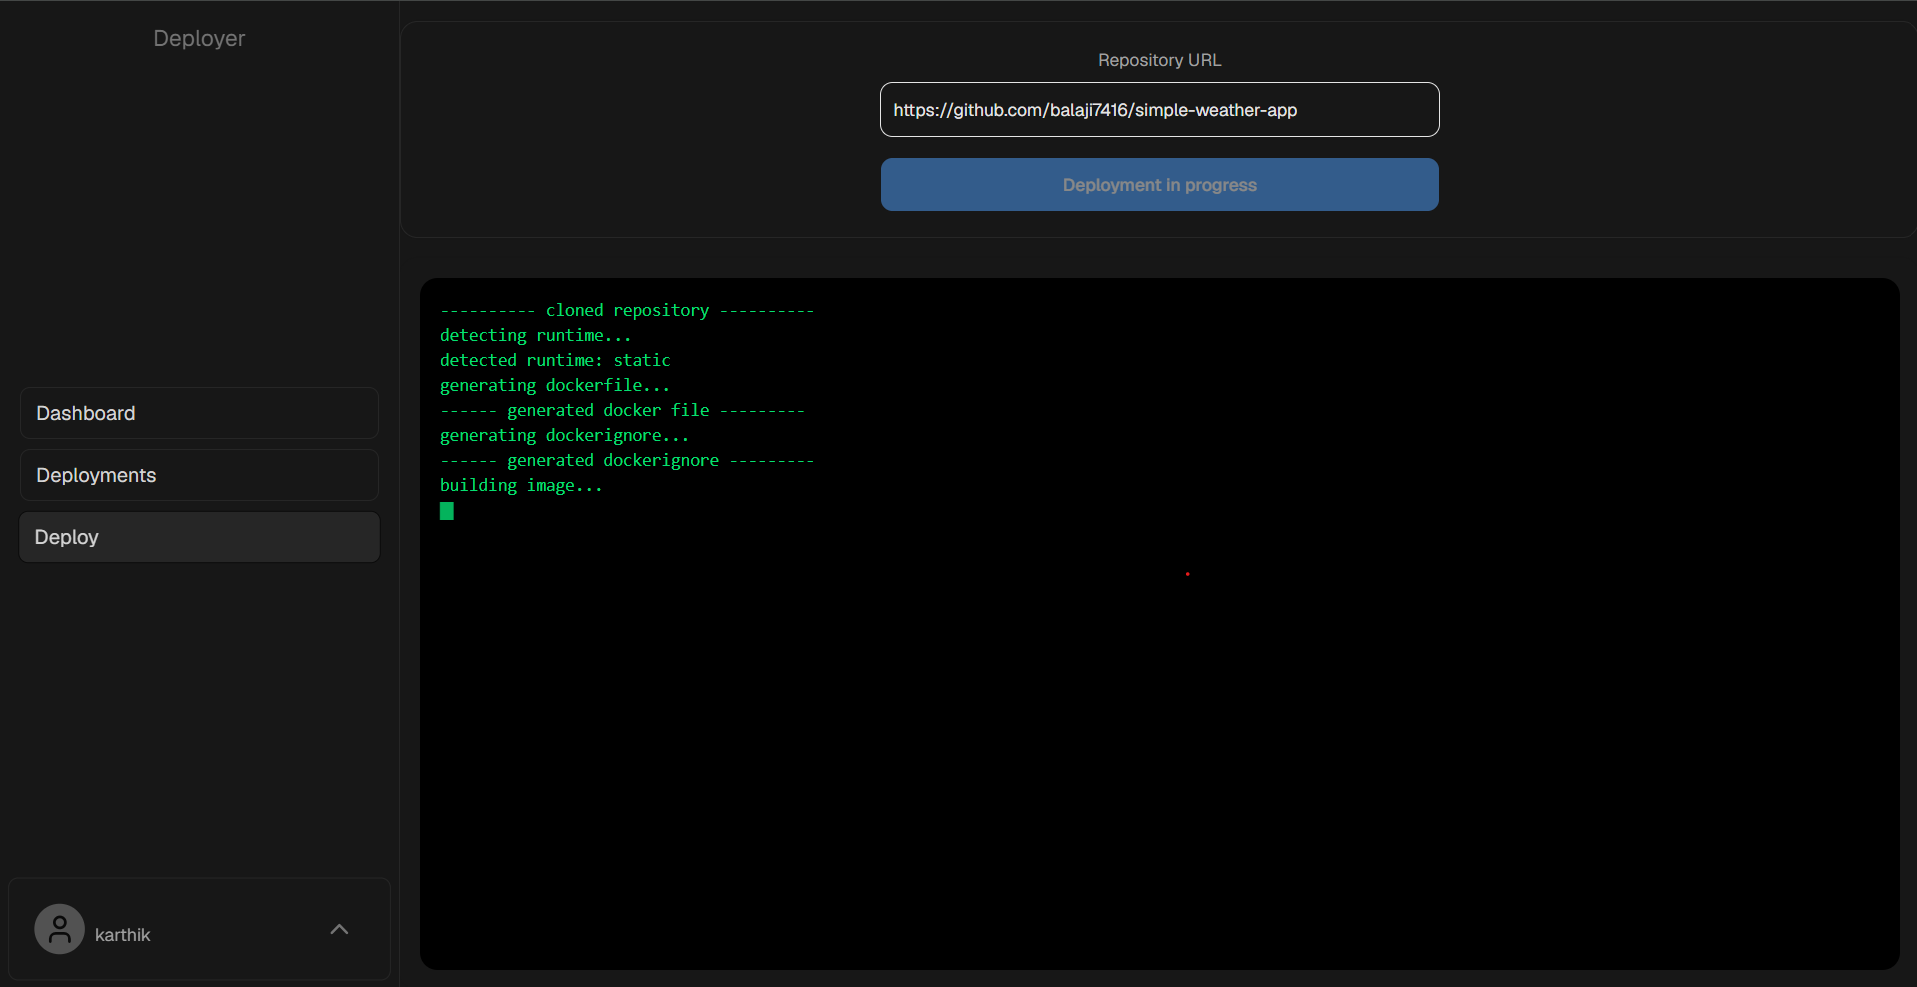
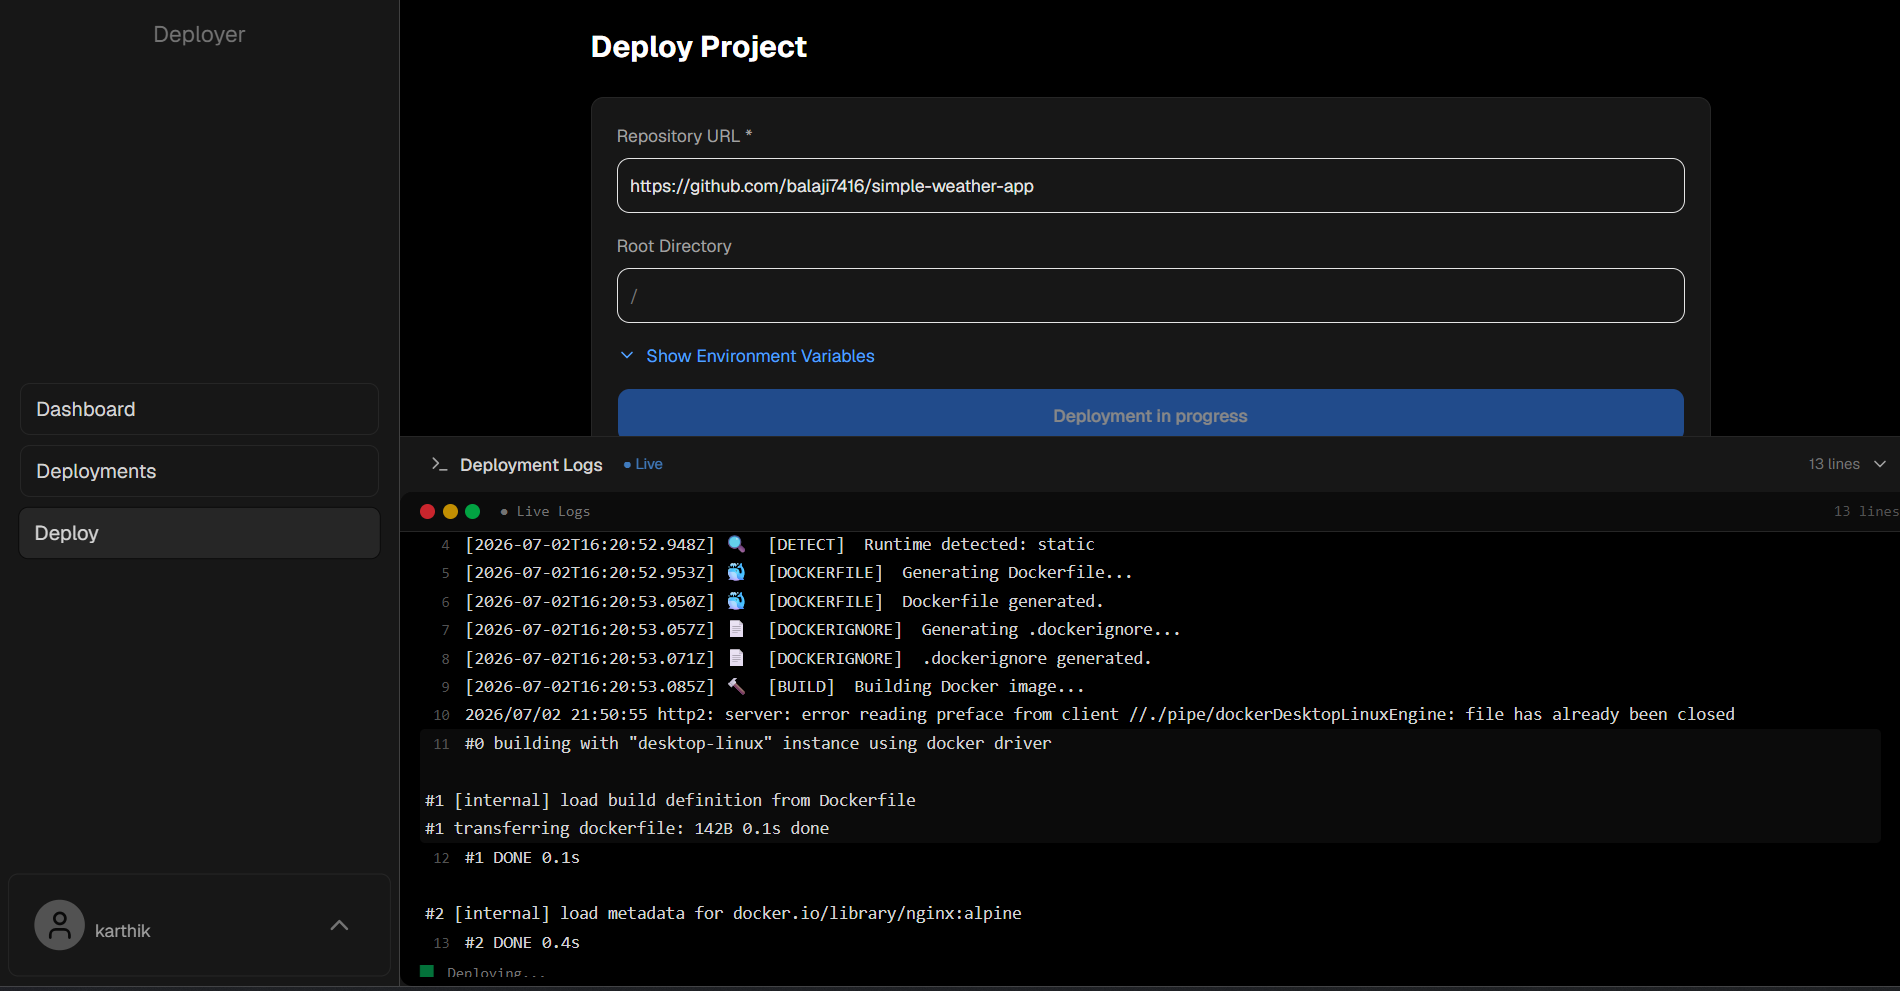
update project images in readme

diff --git a/README.md b/README.md
@@ -10,10 +10,12 @@
 
 ### Deployments Page
 
-![Deployment Records](./docs//deployments.png)
+![Deployment Records](./docs//deployments_page.png)
 
 ### Deploy Page
 
+![Deploy page](./docs/deploy_page_1.png)
+![Deploy page](./docs/deploy_page_2.png)
 ![Deploy page](./docs/deploying.png)
 
 ## Features
